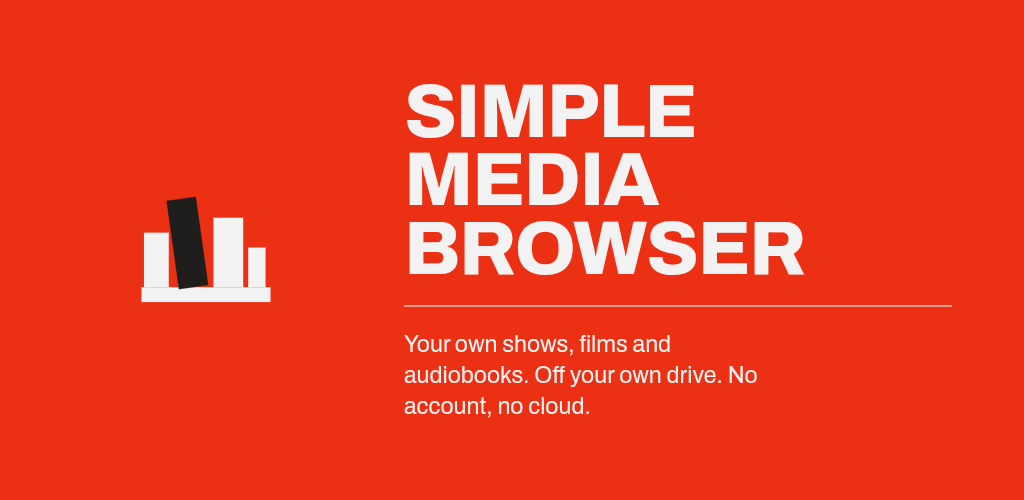
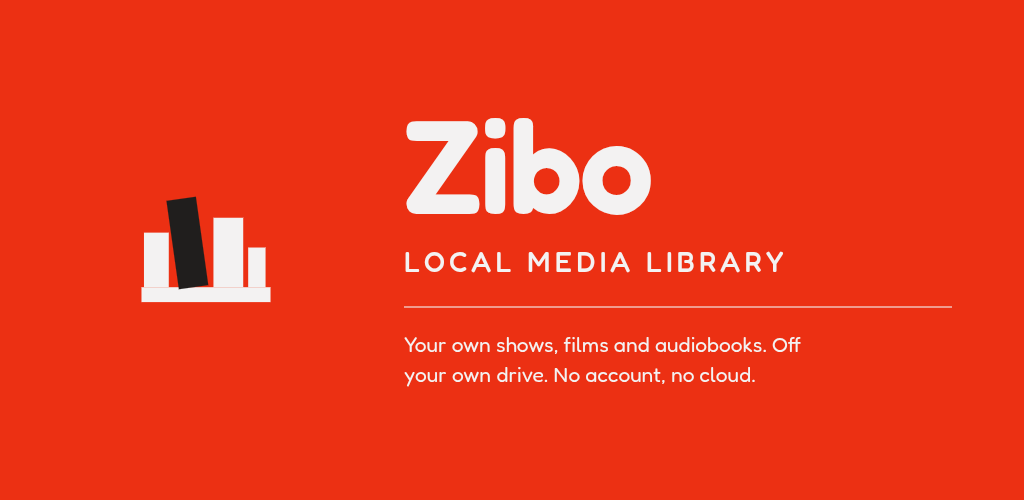
Rebrand to Zibo - Local Media Library (#201)
* Rebrand to Zibo - Local Media Library

The app is being renamed from SimpleMediaBrowser to "Zibo - Local Media
Library". This updates the user-facing name, the store artwork and the
docs, and adds the master SVG brand artwork the PNGs are rasterised from.

Two identifiers are deliberately left alone because renaming them would
create a new app listing rather than update the existing one:

  - `android.package` (net.nawt.simplemediabrowser) is the app's identity
    on the Amazon App Store and Play — changing it orphans the existing
    listing and its install base.
  - the EAS `slug` (SimpleMediaBrowser) resolves the Expo project that
    holds the Android signing credentials; pointing at a different
    project would break signing continuity for store updates.

The launcher/adaptive icon artwork itself is unchanged (the supplied SVGs
rasterise to the PNGs already committed), so only the wordmark in the
store feature graphic actually changes. `scheme` is renamed to `zibo`
since it is app-local and not part of store identity.

* Bump app version to 2.0.0 and versionCode to 57

---------

Changed region(s): [[0.375, 0.15, 0.7812, 0.57], [0.375, 0.66, 0.7812, 0.84], [0.4062, 0.6, 0.9062, 0.63]]

diff --git a/src/app/firsttime.tsx b/src/app/firsttime.tsx
@@ -52,7 +52,7 @@ export default function FirstTime() {
     <KeyboardAvoidingView style={styles.container} behavior="padding" automaticOffset>
     <ScrollView contentContainerStyle={[styles.contentContainer, contentPlatformStyle]}>
       <View style={styles.header}>
-        <ThemedText type="title">Welcome to Simple Media Browser</ThemedText>
+        <ThemedText type="title">Welcome to Zibo</ThemedText>
         <HelloWave />
       </View>
 

diff --git a/src/app/(tabs)/index.tsx b/src/app/(tabs)/index.tsx
@@ -16,7 +16,7 @@ export default function HomeScreen() {
         />
       }>
       <ThemedView style={styles.titleContainer}>
-        <ThemedText type="title">SimpleMediaBrowser!</ThemedText>
+        <ThemedText type="title">Zibo!</ThemedText>
         <HelloWave />
       </ThemedView>
       <ThemedView style={styles.stepContainer}>

diff --git a/src/app/(drawer)/logs.tsx b/src/app/(drawer)/logs.tsx
@@ -56,7 +56,7 @@ export default function LogsScreen() {
         const text = logger.getLogs();
         try {
             await Share.share({
-                title: 'SimpleMediaBrowser debug log',
+                title: 'Zibo debug log',
                 message: text || '(log is empty)',
             });
         } catch {

diff --git a/src/scripts/ImportExportService.ts b/src/scripts/ImportExportService.ts
@@ -1,5 +1,5 @@
 /**
- * ImportExportService — import/export functionality for SimpleMediaBrowser.
+ * ImportExportService — import/export functionality for Zibo.
  *
  * Provides three operations:
  *  1. exportJson  – save settings, overrides and/or matched metadata to a JSON file.

diff --git a/ARCHITECTURE.md b/ARCHITECTURE.md
@@ -1,6 +1,6 @@
 # Architecture
 
-This document describes how SimpleMediaBrowser is put together: the app's
+This document describes how Zibo is put together: the app's
 purpose, its runtime architecture, the data model, and the major subsystems.
 It is aimed at anyone (human or AI agent) making non-trivial changes to the
 codebase. For a quick orientation and contributor workflow, see
@@ -8,7 +8,8 @@ codebase. For a quick orientation and contributor workflow, see
 
 ## 1. Purpose
 
-SimpleMediaBrowser is an Android-first Expo/React Native app that turns
+Zibo ("Zibo — Local Media Library") is an Android-first Expo/React Native app
+that turns
 folders on local or network storage (accessed via Android's Storage Access
 Framework) into a browsable media library. It does **not** play media itself
 — it scans, organizes, and enriches metadata, then hands playback off to an
@@ -39,10 +40,14 @@ SimpleMediaBrowser/
 ├── App.tsx                      # Unused legacy entry point; real entry is expo-router (see index.js)
 ├── index.js                     # Entry: registers expo-router root ("expo-router/entry" in package.json)
 ├── app.json                     # Expo app config (name, package id, plugins, expo-router root="src")
+│                                # Note: `android.package` is still `net.nawt.simplemediabrowser` and the EAS
+│                                # `slug` is still `SimpleMediaBrowser` — both are store/build identity and
+│                                # must not be renamed, they predate the Zibo rebrand.
 ├── eas.json                     # EAS Build profiles
 ├── build.ps1                    # Windows helper script for local release builds
 ├── .github/workflows/           # CI: pre-build-test.yaml (typecheck/lint/test), build-apk.yml, eas-build.yaml
 ├── assets/                      # Icons, splash images, fonts, store graphics
+│   └── svg/                     # Master brand artwork (launcher fg/bg/monochrome, icon); PNGs are rasterised from these
 ├── docs/                        # README screenshots
 ├── scripts/reset-project.js     # Stock Expo "reset to blank template" helper — not app logic
 └── src/

diff --git a/README.md b/README.md
@@ -1,12 +1,12 @@
 <p align="center">
-  <img src="assets/store/icon-512.png" alt="SimpleMediaBrowser app icon" width="128">
+  <img src="assets/store/icon-512.png" alt="Zibo app icon" width="128">
 </p>
 
-# SimpleMediaBrowser
+# Zibo — Local Media Library
 
 A local media browser for Android. Point it at folders on your device or network storage and it organises your TV shows, movies and audiobooks into a clean, browsable library — with posters and metadata pulled automatically from [TMDB](https://www.themoviedb.org/) and cover art for audiobooks from the [iTunes Search API](https://performance-partners.apple.com/search-api).
 
-![Simple Media Browser — your own shows, films and audiobooks. Off your own drive. No account, no cloud.](assets/store/feature-graphic.png)
+![Zibo — Local Media Library. Your own shows, films and audiobooks. Off your own drive. No account, no cloud.](assets/store/feature-graphic.png)
 
 ## Features
 

diff --git a/AGENTS.md b/AGENTS.md
@@ -7,7 +7,7 @@ defers to it for anything beyond orientation.
 
 ## What this project is
 
-SimpleMediaBrowser is an Android-first Expo/React Native app (Expo SDK 55,
+Zibo (Zibo — Local Media Library) is an Android-first Expo/React Native app (Expo SDK 55,
 RN 0.83) that scans SAF-accessible folders into a browsable TV/movie/
 audiobook library, enriches it with TMDB/TVDB/iTunes metadata, and hands
 playback off to an external player app. See [README.md](./README.md) for the
